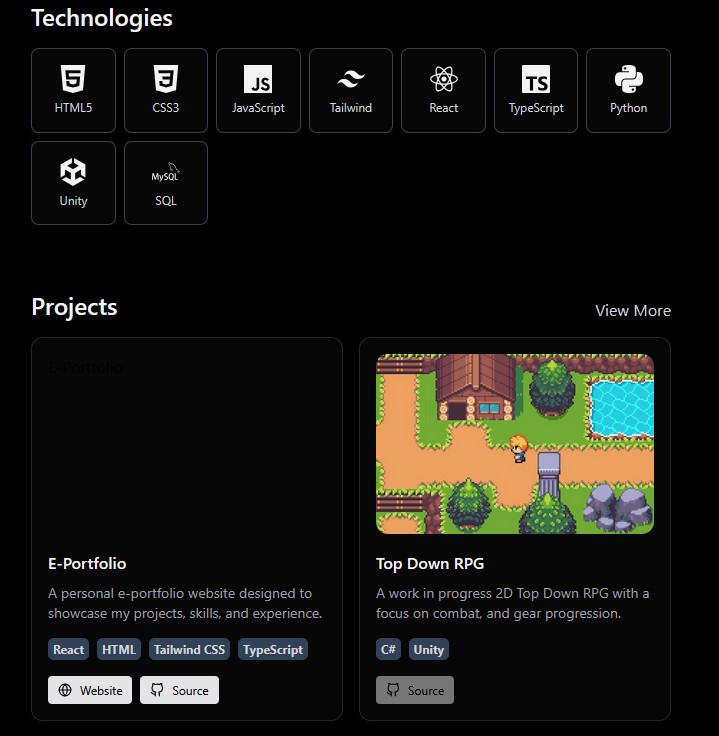
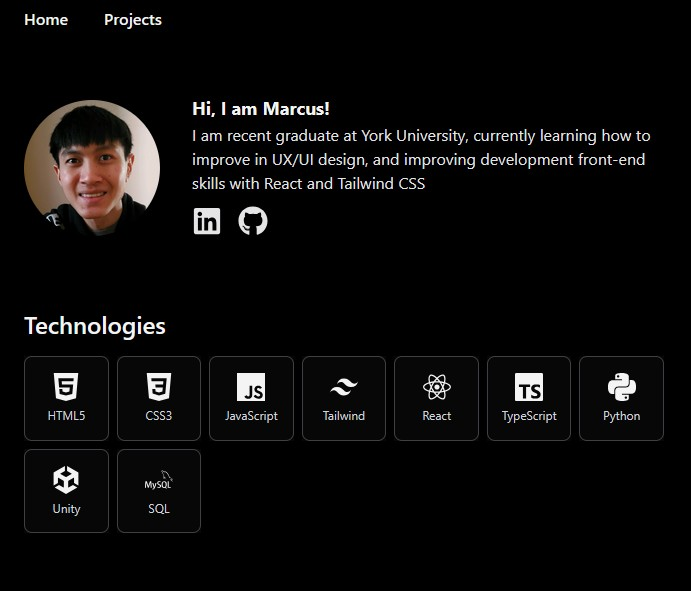
Added functional navigation bar using react router dom, added props for projects components to show view more on home page, hide view more button on project page

diff --git a/src/components/Projects.tsx b/src/components/Projects.tsx
@@ -1,5 +1,6 @@
 import { FiGlobe, FiGithub } from "react-icons/fi";
 import rawProjectsData from "../projects.json";
+import { Link } from "react-router-dom";
 
 interface Project {
   name: string;
@@ -10,10 +11,17 @@ interface Project {
   image: string;
 }
 
-const iconSize = 14 as number;
-const projectsData = rawProjectsData.slice(0, 2) as Project[];
+interface Props {
+  showViewMore: boolean;
+}
 
-function Projects() {
+const iconSize = 14 as number;
+
+function Projects({ showViewMore }: Props) {
+  const projectsData = showViewMore
+    ? (rawProjectsData as Project[])
+    : (rawProjectsData.slice(0, 2) as Project[]);
+
   return (
     <>
       <div className="w-full">
@@ -22,9 +30,19 @@ function Projects() {
             <h1 className="font-semibold text-2xl dark:text-zinc-100">
               Projects
             </h1>
-            <a className="flex items-center">
-              <span className="text-md pt-2 dark:text-zinc-300">View More</span>
-            </a>
+            {showViewMore && (
+              <div className="flex items-center">
+                <span className="text-md pt-2 dark:text-zinc-300">
+                  <Link
+                    to="/projects"
+                    className="navigation-bar"
+                    aria-label="View More Projects"
+                  >
+                    View More
+                  </Link>
+                </span>
+              </div>
+            )}
           </div>
           <div className="grid grid-cols-1 sm:grid-cols-2 gap-4 max-w-2xl mx-auto">
             {projectsData.map((item) => (

diff --git a/src/components/NavigationBar.tsx b/src/components/NavigationBar.tsx
@@ -1,17 +1,19 @@
+import { Link } from "react-router-dom";
+
 function NavigationBar() {
   return (
     <>
       <nav className="w-full">
-        <ul className="flex text-md space-x-9 mx-auto px-4 max-w-2xl mt-8 mb-16 items-center ">
+        <ul className="flex text-md space-x-9 mx-auto px-4 max-w-2xl mt-8 mb-16 items-center">
           <li>
-            <a className="navigation-bar" href="#">
+            <Link to="/" className="navigation-bar">
               Home
-            </a>
+            </Link>
           </li>
           <li>
-            <a className="navigation-bar" href="#">
+            <Link to="/projects" className="navigation-bar">
               Projects
-            </a>
+            </Link>
           </li>
         </ul>
       </nav>

diff --git a/src/main.tsx b/src/main.tsx
@@ -1,6 +1,8 @@
 import { StrictMode } from "react";
 import { createRoot } from "react-dom/client";
 import "./index.css";
+import { BrowserRouter } from "react-router-dom";
+import App from "./App";
 import Nav from "./components/NavigationBar.tsx";
 import Bio from "./components/Bio.tsx";
 import TechStack from "./components/TechStack.tsx";
@@ -8,11 +10,8 @@ import Projects from "./components/Projects.tsx";
 
 createRoot(document.getElementById("root")!).render(
   <StrictMode>
-    <main className="font-sans">
-      <Nav />
-      <Bio />
-      <TechStack />
-      <Projects />
-    </main>
+    <BrowserRouter>
+      <App />
+    </BrowserRouter>
   </StrictMode>
 );

diff --git a/src/App.tsx b/src/App.tsx
@@ -1,0 +1,18 @@
+import { Routes, Route } from "react-router-dom";
+import Nav from "./components/NavigationBar.tsx";
+import Home from "./pages/Home.tsx";
+import ProjectsPage from "./pages/ProjectPage.tsx";
+
+function App() {
+  return (
+    <main className="font-sans">
+      <Nav />
+      <Routes>
+        <Route path="/" element={<Home />} />
+        <Route path="/projects" element={<ProjectsPage />} />
+      </Routes>
+    </main>
+  );
+}
+
+export default App;

diff --git a/src/pages/Home.tsx b/src/pages/Home.tsx
@@ -1,0 +1,15 @@
+import Bio from "../components/Bio";
+import TechStack from "../components/TechStack";
+import Projects from "../components/Projects";
+
+function Home() {
+  return (
+    <>
+      <Bio />
+      <TechStack />
+      <Projects showViewMore={true} />
+    </>
+  );
+}
+
+export default Home;

diff --git a/src/pages/ProjectPage.tsx b/src/pages/ProjectPage.tsx
@@ -1,0 +1,7 @@
+import Projects from "../components/Projects";
+
+function ProjectsPage() {
+  return <Projects showViewMore={false}/>;
+}
+
+export default ProjectsPage;
